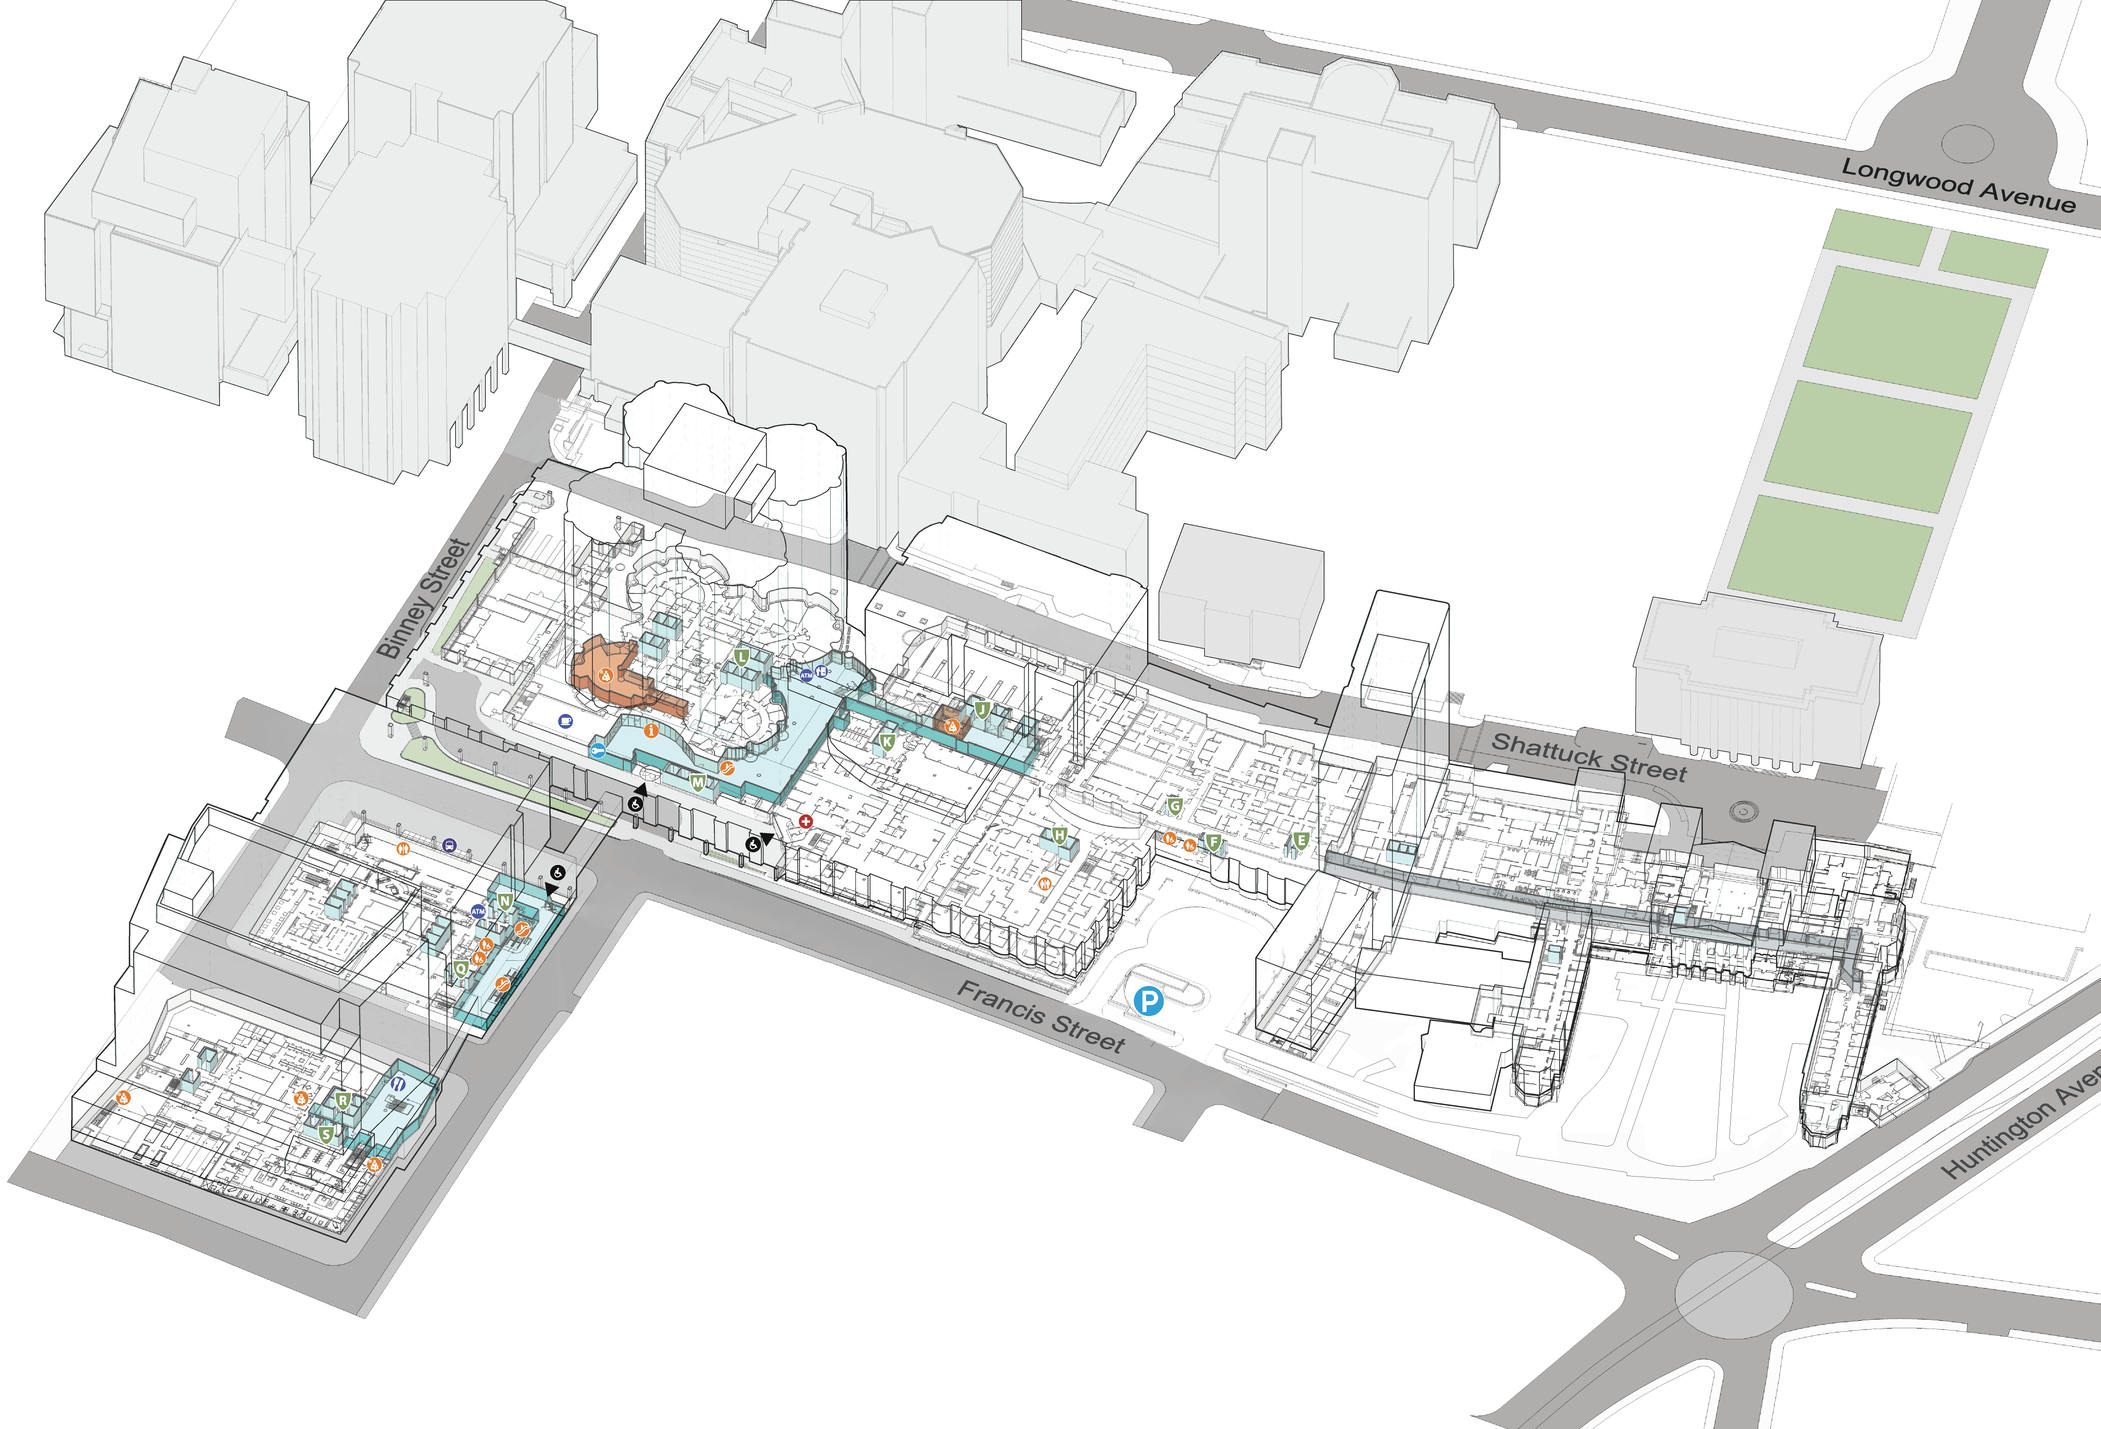
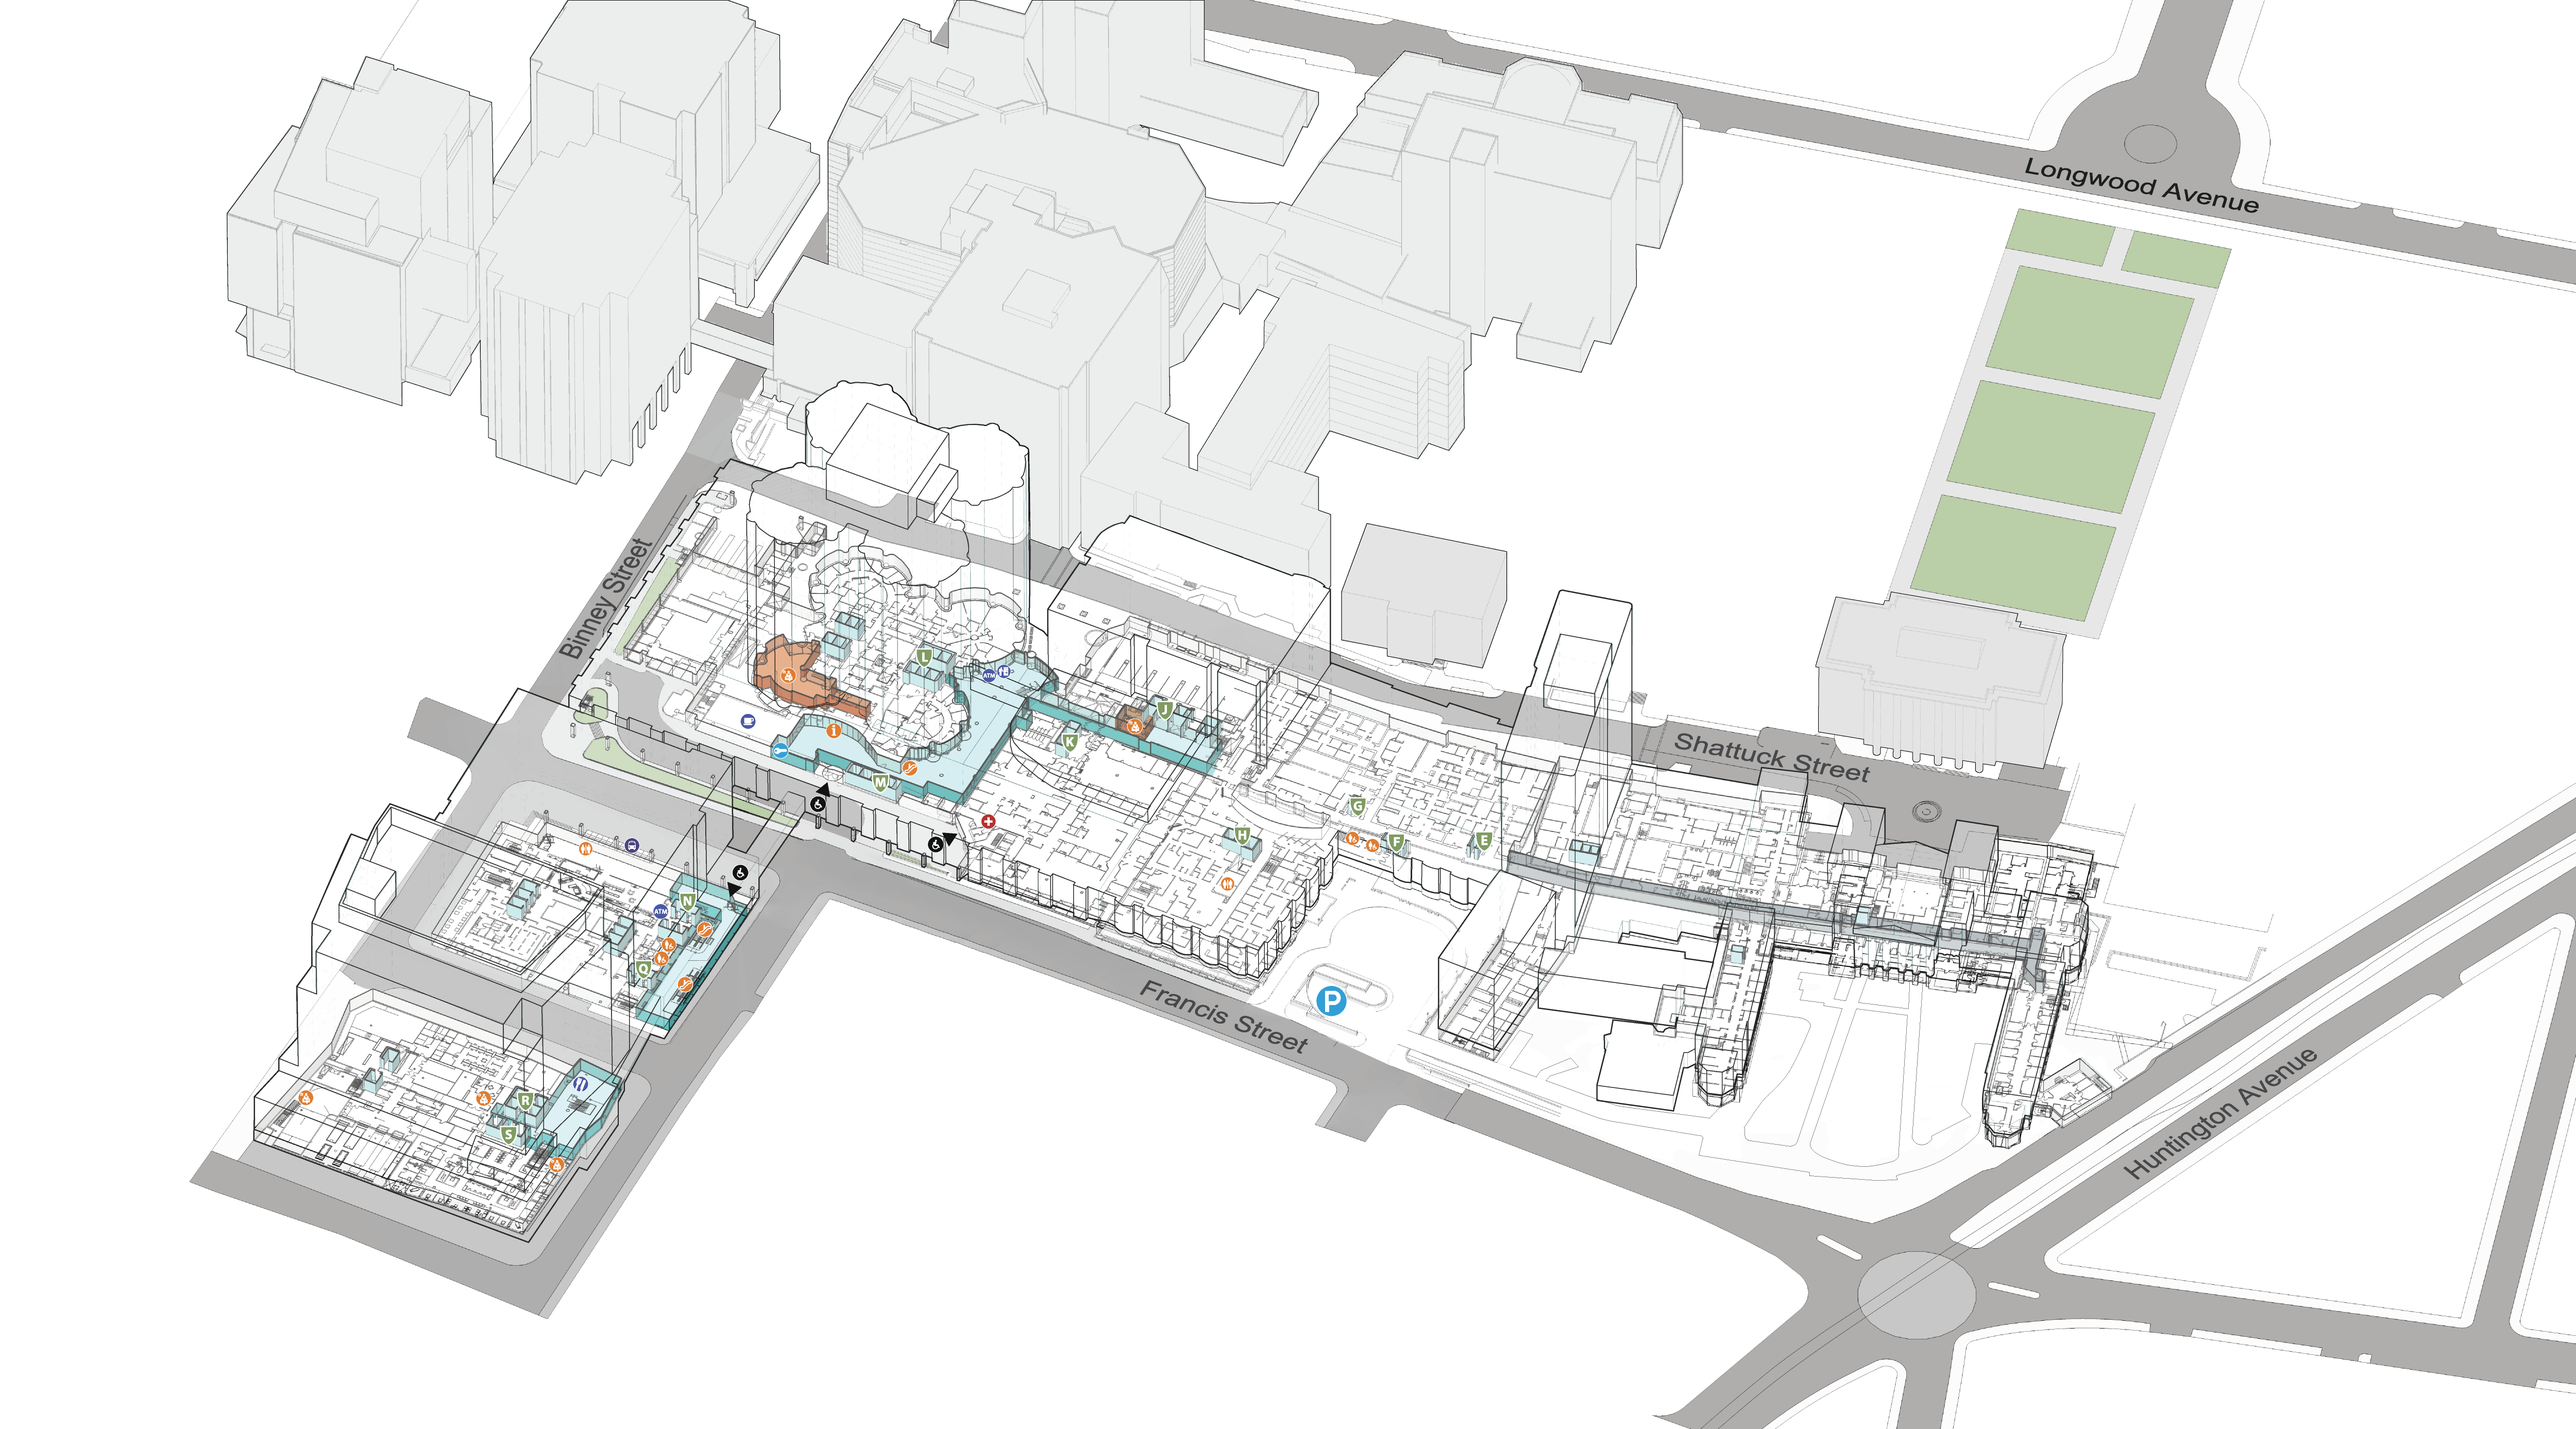
Draw correct nodes on wireframe

diff --git a/src/main/java/com/github/CS3733_D18_Team_F_Project_0/controller/page/HomeController.java b/src/main/java/com/github/CS3733_D18_Team_F_Project_0/controller/page/HomeController.java
@@ -512,15 +512,15 @@ public class HomeController implements SwitchableController {
         for (Edge edge : map.getEdges(edge -> edge.getNode2().getFloor().equals(newLevel))) {
             Line line = new Line();
             line.setEndX(edge.getNode1().getWireframePosition().getX() * mapContainer.getMaxWidth() / 5000.f);
-            line.setEndY(edge.getNode1().getWireframePosition().getY() * mapContainer.getMaxHeight() / 2774.f);
+            line.setEndY(edge.getNode1().getWireframePosition().getY() * mapContainer.getMaxHeight() / 2772.f);
             line.setStartX(edge.getNode2().getWireframePosition().getX() * mapContainer.getMaxWidth() / 5000.f);
-            line.setStartY(edge.getNode2().getWireframePosition().getY() * mapContainer.getMaxHeight() / 2774.f);
+            line.setStartY(edge.getNode2().getWireframePosition().getY() * mapContainer.getMaxHeight() / 2772.f);
             mapContainer.getChildren().add(line);
         }
         for (Node node : map.getNodes(node -> node.getFloor().equals(newLevel))) {
             Circle circle = new Circle(1.5, Color.RED);
             circle.setCenterX(node.getWireframePosition().getX() * mapContainer.getMaxWidth() / 5000.f);
-            circle.setCenterY(node.getWireframePosition().getY() * mapContainer.getMaxHeight() / 2774.f);
+            circle.setCenterY(node.getWireframePosition().getY() * mapContainer.getMaxHeight() / 2772.f);
             mapContainer.getChildren().add(circle);
         }
     }
